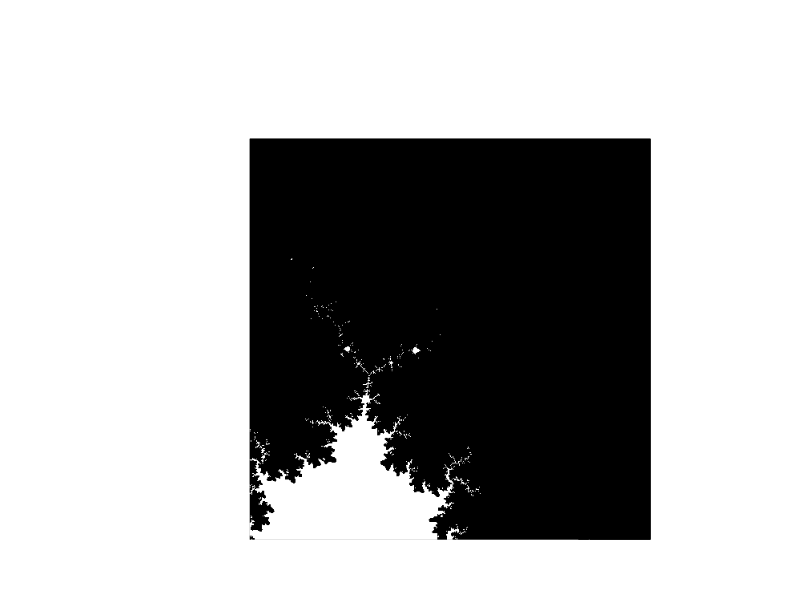
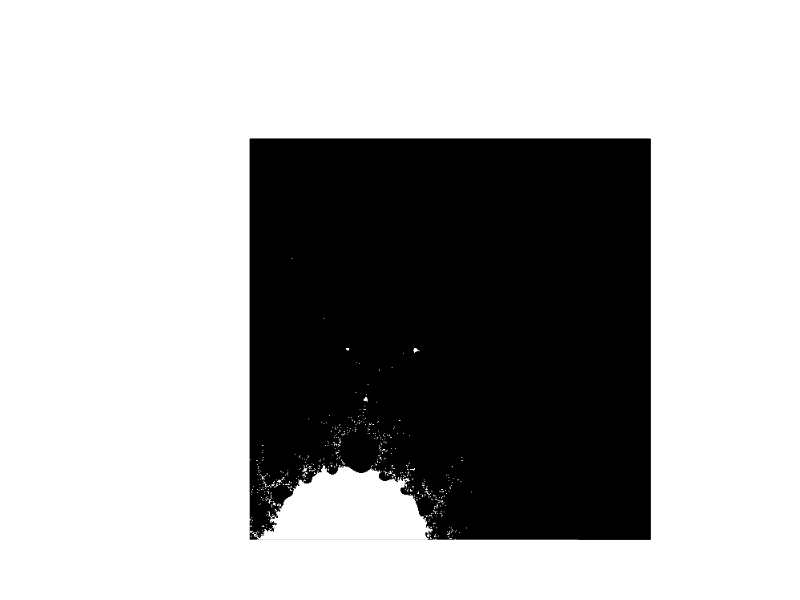
not successful with higher precision

Changed region(s): [[0.3125, 0.6, 0.5938, 0.9], [0.5, 0.57, 0.5312, 0.6]]

diff --git a/fractals/mandel_movie.py b/fractals/mandel_movie.py
@@ -10,14 +10,14 @@ import time
 
 N = 500
 nIts = 25
-nZooms = 50
+nZooms = 10
 x0=0
 y0=-1
 
 movie = np.zeros([N,N,nZooms])
 
-x = np.linspace(-2,1,N)
-y = np.linspace(-1,1,N)
+x = np.linspace(-2,1,N,dtype=np.float128)
+y = np.linspace(-1,1,N,dtype=np.float128)
 X,Y = np.meshgrid(x,y)
 c = X + 1j*Y
 z = 0*c
@@ -34,12 +34,12 @@ movie[:,:,0] = mask
 for j in range(1,nZooms):
     h=1./(2**j)
     print "Plot number ", j
-    x = x0+h*np.linspace(-1,1,N)
-    y = y0+h*np.linspace(-1,1,N)
+    x = x0+h*np.linspace(-1,1,N,dtype=np.float128)
+    y = y0+h*np.linspace(-1,1,N,dtype=np.float128)
     X,Y = np.meshgrid(x,y)
     c = X + 1j*Y
     z = 0*c
-    for i in range(nIts):
+    for i in range(j*nIts):   # more iterations at deeper levels
         z = z**2 + c
 
     mask = np.abs(z) < 1
